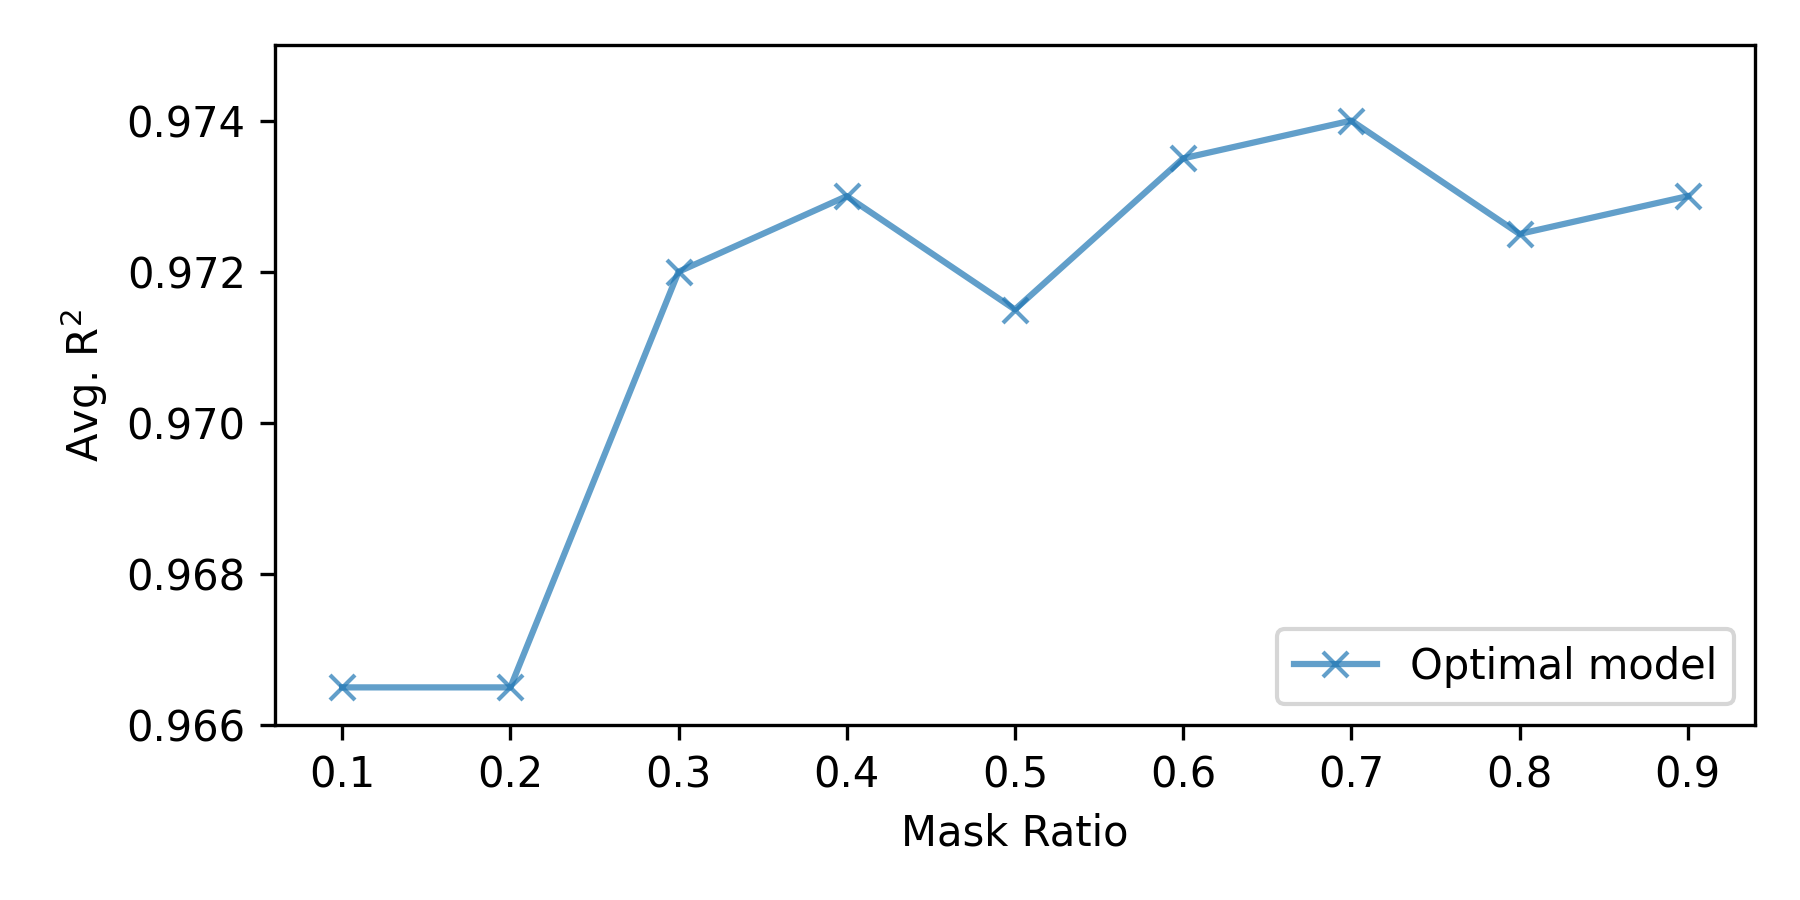
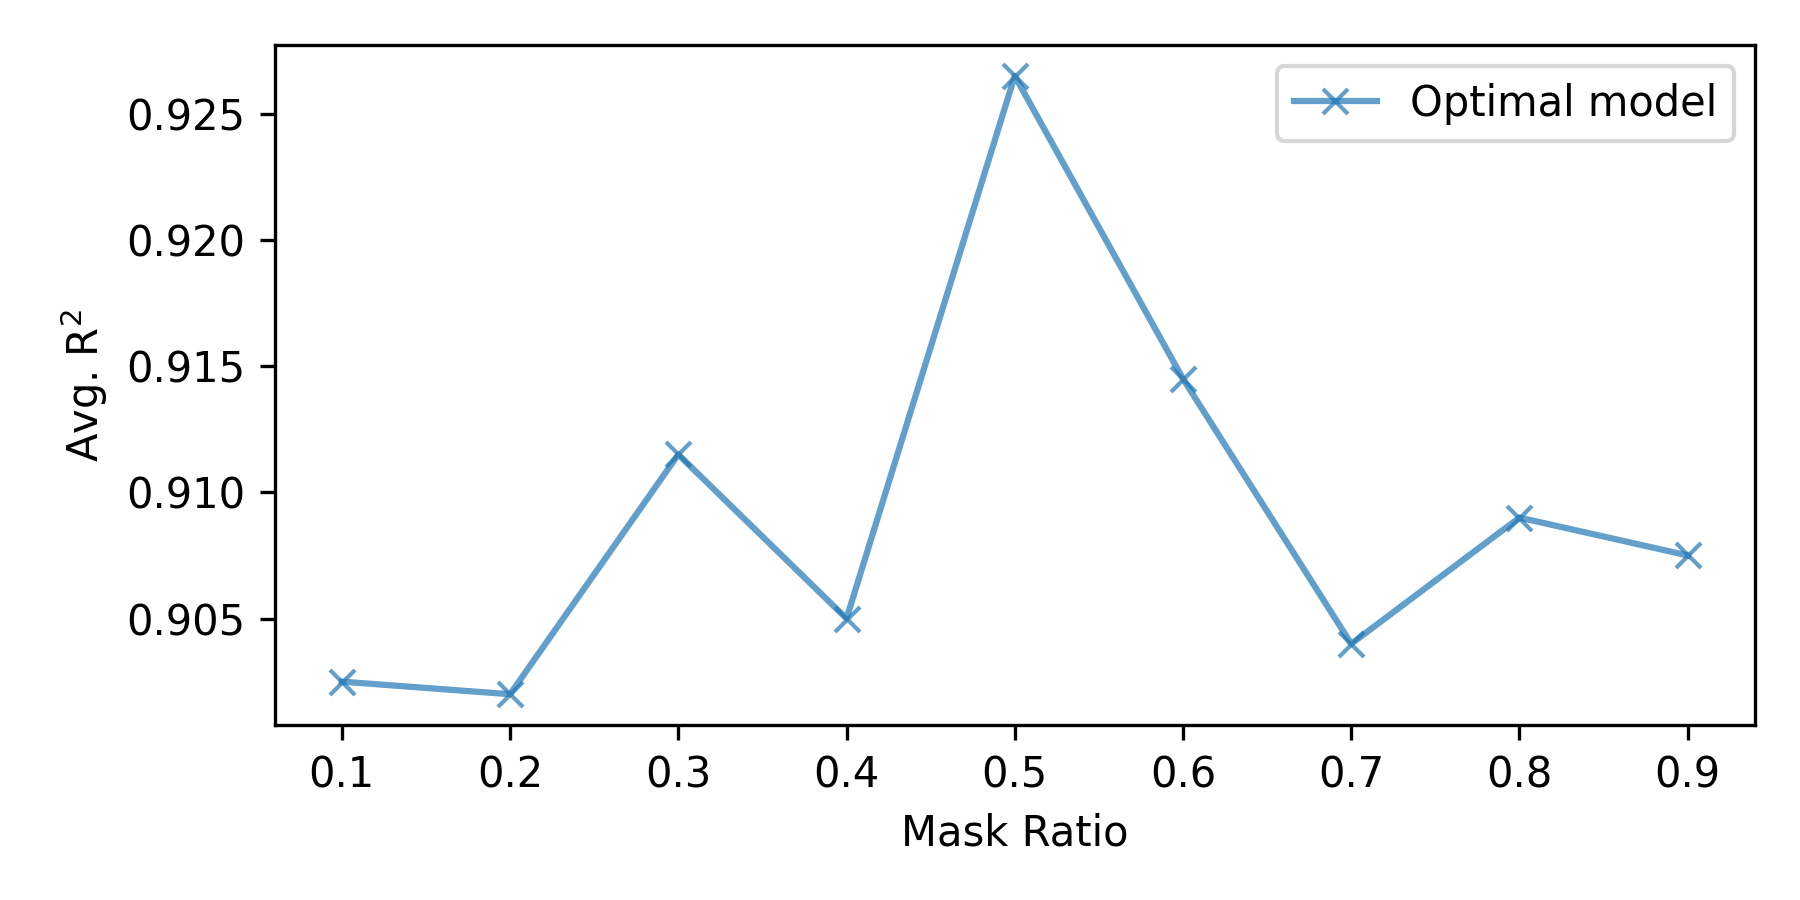
Update figures for paper

diff --git a/visualize.py b/visualize.py
@@ -224,8 +224,9 @@ def overfitting_in_pretrain():
 
     fig, ax = plt.subplots(1, 1, figsize=(7, 5))
     # plot the line with empty circle markers
-    ax.plot(epochs, r2_pretrain , label="Pre-training", marker="x")
-    ax.plot(epochs, r2_avg, label="Fine-tuning", c="gray", marker="o", markerfacecolor="none")
+    ax.plot(epochs, r2_pretrain, label="Pre-training", marker="x")
+    ax.plot(epochs, r2_avg, label="Fine-tuning",
+            c="gray", marker="o", markerfacecolor="none")
     ax.set_xlabel("Epoch")
     ax.set_ylabel("R$^2$")
     ax.legend()
@@ -236,6 +237,11 @@ def overfitting_in_pretrain():
 def performance_mask_ratio_val():
     """Codes adopted from finetune_05.ipynb"""
     import pandas as pd
+    styles = dict(
+        marker=["P", "P", "P"],
+        linestyle=["-", "--", ":"],
+        c=["C0", "gray", "gray"]
+    )
 
     df = pd.read_csv("files/finetune_pretrained.csv", index_col=0)
     transforms = ["instance_normalize", "normalize", "log"]
@@ -253,14 +259,16 @@ def performance_mask_ratio_val():
     # 3-1 plot: r2_mean vs mask_ratio in each transform
     fig, ax = plt.subplots(figsize=(6, 3))
 
-    for t, marker in zip(transforms, ["x", "o", "^"]):
+    for i, t in enumerate(transforms):
         mask = r2_mean_df["transform"] == t
         r2_mean_ratios = r2_mean_df[mask].groupby("mask_ratio").apply(
             lambda x: x["r2_mean"].max(), include_groups=False).copy()
-        ax.plot(r2_mean_ratios.index, r2_mean_ratios,
-                label=t, marker=marker, alpha=0.7)
+        plt.plot(
+            r2_mean_ratios.index, r2_mean_ratios, label=t,
+            marker=styles["marker"][i], linestyle=styles["linestyle"][i],
+            c=styles["c"][i], alpha=0.7)
 
-    ax.set_ylim(0.93, 0.98)
+    # ax.set_ylim(0.93, 0.98)
     ax.set_xlabel("Mask Ratio")
     ax.set_ylabel("Avg. R$^2$")
     ax.legend(loc="lower right")
@@ -276,10 +284,10 @@ def performance_mask_ratio_val():
     ax.plot(r2_mean_ratios.index, r2_mean_ratios,
             label="Optimal model", marker="x", alpha=0.7)
 
-    ax.set_ylim(0.966, 0.975)
+    # ax.set_ylim(0.966, 0.975)
     ax.set_xlabel("Mask Ratio")
     ax.set_ylabel("Avg. R$^2$")
-    ax.legend(loc="lower right")
+    ax.legend(loc="upper right")
     fig.tight_layout()
     fig.savefig("files/r2_mean_vs_mask_ratio.png", dpi=300)
 
@@ -318,4 +326,4 @@ def performance_data_val():
 
 
 if __name__ == "__main__":
-    overfitting_in_pretrain()
+    performance_mask_ratio_val()
